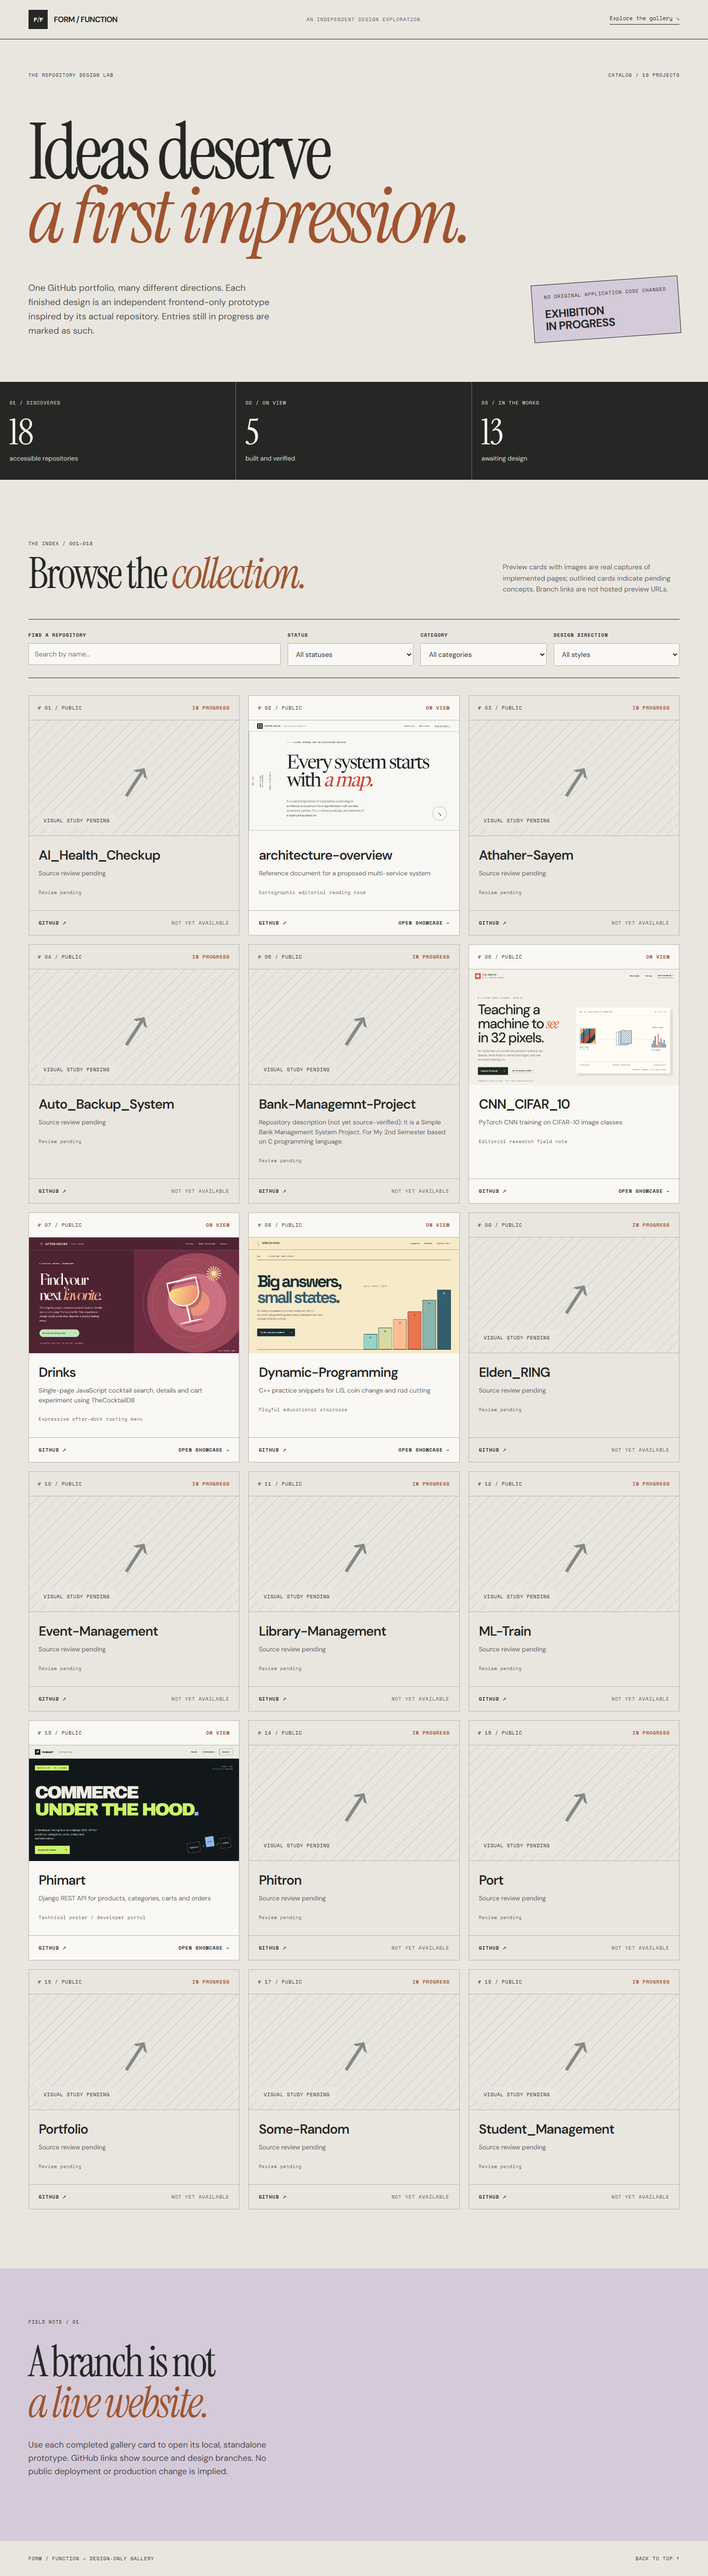
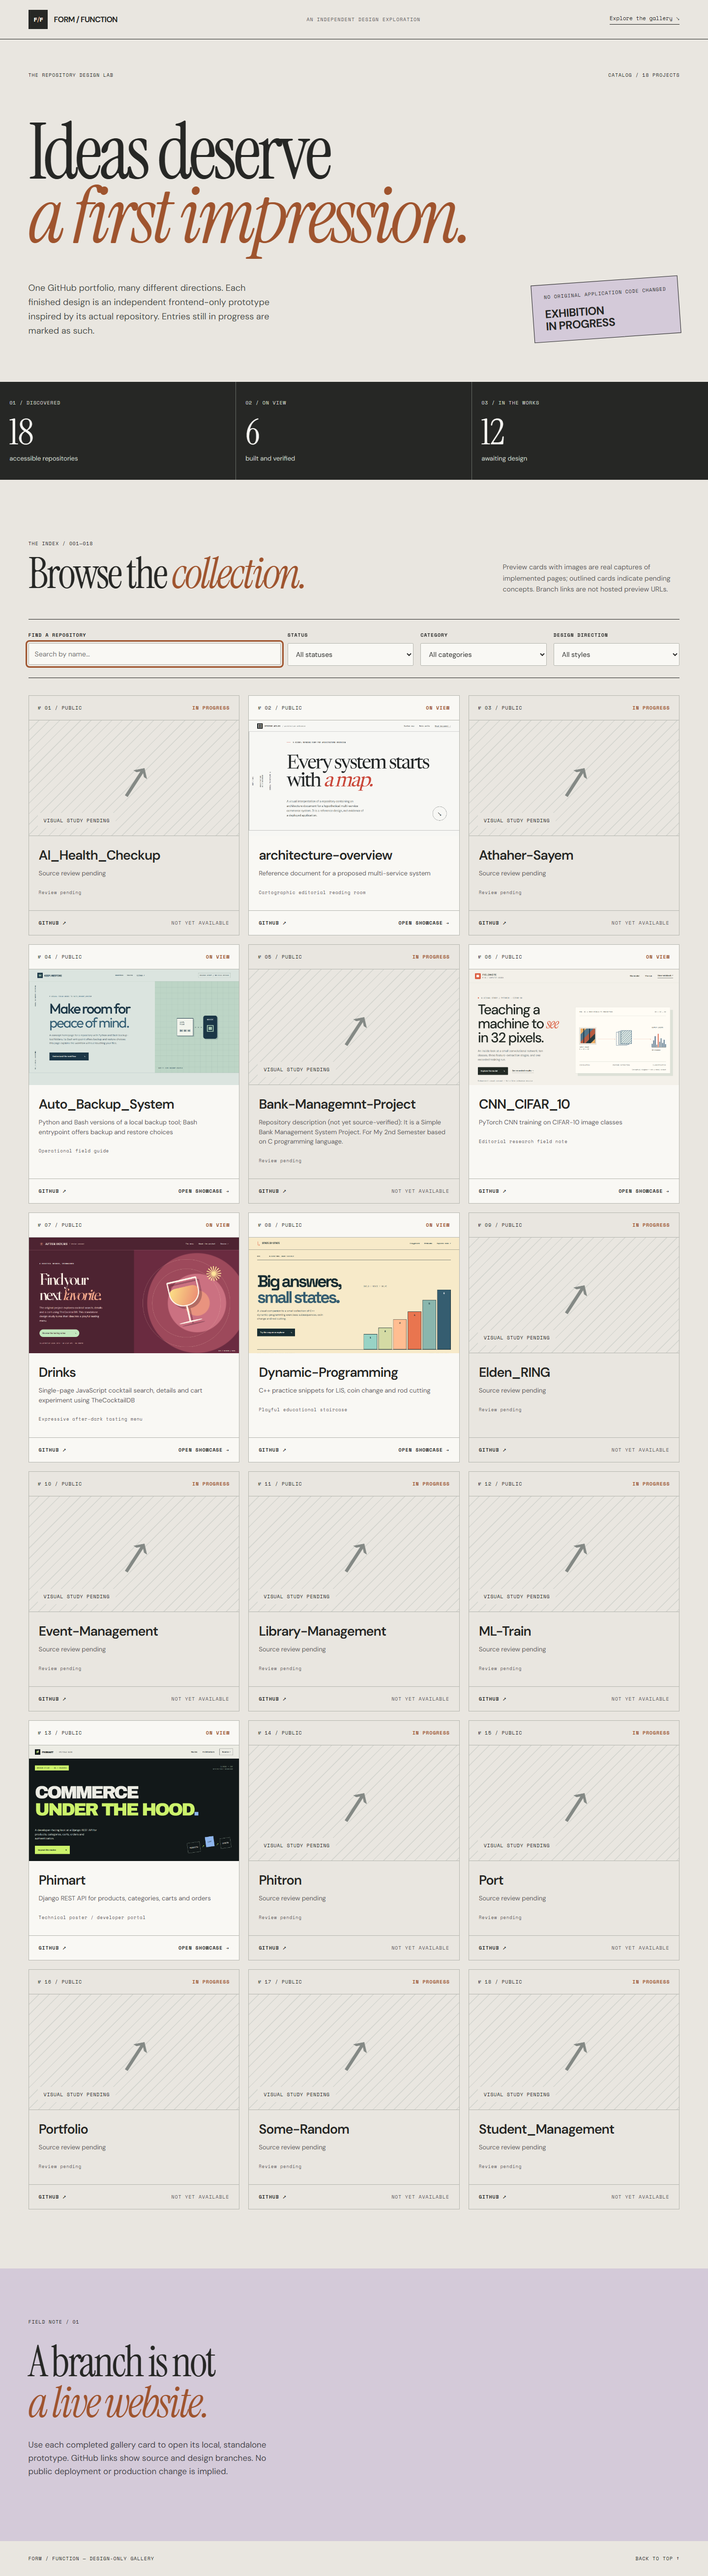
feat: index verified backup showcase

Changed region(s): [[0.2188, 0.3736, 0.3438, 0.4359], [0.0625, 0.3736, 0.1875, 0.4359]]

diff --git a/showcase-design/showcases/Auto_Backup_System/styles.css b/showcase-design/showcases/Auto_Backup_System/styles.css
@@ -1,0 +1,1 @@
+:root{--mist:#dbe4df;--cream:#f3f5ed;--navy:#1b3646;--blue:#345e74;--mint:#a7c9b3;--orange:#e09163;--line:#a8b7af;--sans:'DM Sans',Arial,sans-serif;--display:'Outfit',Arial,sans-serif;--mono:'IBM Plex Mono',Consolas,monospace;--s4:4px;--s8:8px;--s16:16px;--s24:24px;--s32:32px;--s48:48px;--s80:80px;--radius:12px}*{box-sizing:border-box}html{scroll-behavior:smooth}body{margin:0;background:var(--mist);color:var(--navy);font:16px/1.6 var(--sans)}a{color:inherit}button{cursor:pointer;font:inherit}a:focus-visible,button:focus-visible{outline:3px solid var(--orange);outline-offset:3px}.skip{position:absolute;top:-90px;left:12px;background:white;padding:12px;z-index:5}.skip:focus{top:10px}header{min-height:82px;padding:0 4%;display:flex;justify-content:space-between;align-items:center;gap:20px;border-bottom:1px solid var(--line)}.brand{font:700 17px var(--display);letter-spacing:-.04em;text-decoration:none;white-space:nowrap}.brand>span{display:inline-grid;place-items:center;width:36px;height:36px;margin-right:7px;background:var(--navy);color:var(--mint);font-size:23px}header nav{display:flex;gap:27px;font:600 11px var(--mono)}header nav a{text-decoration:none}header nav a:hover{color:var(--blue)}.mode,.eyebrow,.hero-side,.diagram-caption,.section-heading>span,.card-head,.card-footer,.steps b,.implementation>div:first-child>span,.code-head,.code-card>p,.end>span,footer{font:600 10px/1.5 var(--mono);letter-spacing:.09em}.mode{border:1px solid var(--line);padding:8px 10px}.hero{display:grid;grid-template-columns:85px 1.15fr .85fr;min-height:610px;border-bottom:1px solid var(--navy)}.hero-side{writing-mode:vertical-rl;transform:rotate(180deg);display:flex;justify-content:space-between;align-items:center;padding:25px;border-right:1px solid var(--line)}.hero-body{padding:95px 5% 85px 7%}.eyebrow{color:var(--blue)}h1,h2,h3,p{margin-top:0}h1,h2{font-family:var(--display);font-weight:500;line-height:.99;letter-spacing:-.065em}h1{font-size:clamp(65px,6.7vw,110px);margin:27px 0}h1 em,h2 em{font-weight:400;font-style:normal;color:var(--blue)}.hero-body>p:not(.eyebrow){max-width:550px;color:#47616b;font-size:17px}.hero-cta{display:inline-flex;justify-content:space-between;gap:55px;margin-top:32px;padding:17px 22px;background:var(--navy);color:var(--cream);text-decoration:none;font-weight:700;font-size:13px}.hero-cta:hover{background:var(--blue)}.hero-diagram{background:#bdd5c6;position:relative;display:flex;align-items:center;justify-content:center;gap:10px;padding:25px;overflow:hidden}.hero-diagram:before{content:'';position:absolute;inset:0;background:repeating-linear-gradient(0deg,transparent 0 37px,rgba(27,54,70,.08) 38px 39px),repeating-linear-gradient(90deg,transparent 0 37px,rgba(27,54,70,.08) 38px 39px)}.source-shape,.vault-shape{position:relative;min-width:90px;padding:18px;background:var(--cream);border:2px solid var(--navy);box-shadow:7px 7px 0 rgba(27,54,70,.17);font:700 11px var(--mono)}.source-shape i{display:block;font:25px var(--display);font-style:normal;margin-top:20px}.vault-shape{border-radius:15px;text-align:center;background:var(--navy);color:var(--cream)}.vault-shape strong{display:block;font-size:65px;line-height:1.6;color:var(--mint)}.dashed{position:relative;color:var(--navy);font:17px var(--mono)}.diagram-caption{position:absolute;left:24px;bottom:25px}.workflow{padding:110px 5% 130px}.section-heading{max-width:1280px;margin:auto}.section-heading h2,.implementation h2,.end h2{font-size:clamp(55px,5.8vw,92px);margin:24px 0}.section-heading>p{max-width:600px;color:#47616b}.workflow-grid{max-width:1280px;margin:50px auto 0;display:grid;grid-template-columns:350px 1fr;gap:20px}.steps{display:grid;gap:7px;align-content:start}.steps button{border:1px solid var(--line);background:var(--cream);padding:23px;display:flex;gap:17px;align-items:center;text-align:left}.steps button[aria-pressed=true]{background:var(--navy);color:var(--cream);border-color:var(--navy)}.steps button:hover{border-color:var(--orange)}.steps b{font-size:15px;color:var(--orange)}.steps span{flex:1;font-weight:700;font-size:14px}.steps i{font-style:normal}.phase-card{background:var(--cream);border:1px solid var(--line)}.card-head,.card-footer{display:flex;justify-content:space-between;gap:20px;padding:17px 25px;border-bottom:1px solid var(--line)}.card-main{padding:40px 45px 55px;min-height:265px}.card-main>span{font-size:60px;line-height:1;color:var(--orange)}.card-main h3{font:500 44px/1.07 var(--display);letter-spacing:-.05em;margin:20px 0}.card-main p{max-width:590px;color:#47616b}.card-footer{border:0;border-top:1px solid var(--line)}.implementation{padding:115px 5%;background:var(--navy);color:var(--cream);display:grid;grid-template-columns:1fr 1fr;align-items:center;gap:60px}.implementation>div:first-child>p{color:#d0ddda;max-width:560px;line-height:1.8}.implementation h2 em{color:var(--mint)}.code-card{min-width:0;background:#254552;border:1px solid #6d898e}.code-head{display:flex;justify-content:space-between;gap:10px;padding:17px;border-bottom:1px solid #6d898e;color:var(--mint)}pre{overflow:auto;margin:0;padding:30px 22px;font:13px/1.9 var(--mono);color:#d8efe0}.code-card>p{margin:0;padding:20px;color:#c6d5d1;border-top:1px solid #6d898e;font-size:10px}.end{padding:110px 5% 120px;background:var(--cream)}.end h2 em{color:var(--orange)}.end a{display:inline-block;background:var(--orange);padding:18px 24px;font:700 12px var(--mono);text-decoration:none;margin-bottom:24px}.end a:hover{background:#edab82}.end p{color:#47616b}footer{display:flex;justify-content:space-between;gap:15px;padding:24px 5%}footer a{text-decoration:none}@media(max-width:1050px){header .mode{display:none}.hero{grid-template-columns:52px 1fr .8fr}.hero-body{padding:70px 5%}.hero h1{font-size:clamp(58px,7vw,90px)}.workflow-grid{grid-template-columns:290px 1fr}.implementation{gap:25px}}@media(max-width:720px){header{padding:0 20px;min-height:65px}header nav a:not(:last-child){display:none}.hero{grid-template-columns:1fr}.hero-side{writing-mode:initial;transform:none;flex-direction:row;border-right:0;border-bottom:1px solid var(--line);padding:12px 20px}.hero-body{padding:65px 20px}.hero h1{font-size:clamp(58px,11vw,78px)}.hero-diagram{min-height:310px}.section-heading h2,.implementation h2,.end h2{font-size:clamp(52px,10vw,74px)}.workflow{padding:80px 20px}.workflow-grid{grid-template-columns:1fr}.card-main{padding:26px}.card-main h3{font-size:34px}.implementation{padding:80px 20px;grid-template-columns:1fr}.end{padding:80px 20px}footer{padding:24px 20px;font-size:9px}}@media(max-width:400px){.hero h1{font-size:54px}.hero-diagram{gap:5px}.source-shape,.vault-shape{min-width:76px;padding:12px}.dashed{font-size:12px}.code-head span:last-child{display:none}}@media(prefers-reduced-motion:reduce){*,*:before,*:after{scroll-behavior:auto!important;transition:none!important;animation:none!important}}

diff --git a/showcase-design/showcases/Auto_Backup_System/index.html b/showcase-design/showcases/Auto_Backup_System/index.html
@@ -1,0 +1,14 @@
+<!doctype html><html lang="en"><head><meta charset="utf-8"><meta name="viewport" content="width=device-width,initial-scale=1"><meta name="theme-color" content="#dbe4df"><meta name="description" content="A design-only operational map for a local backup scripting repository. No backup or restore is performed."><title>Keep / Restore — backup workflow concept</title><link rel="preconnect" href="https://fonts.googleapis.com"><link rel="preconnect" href="https://fonts.gstatic.com" crossorigin><link href="https://fonts.googleapis.com/css2?family=DM+Sans:wght@400;500;600;700&family=IBM+Plex+Mono:wght@400;500;600&family=Outfit:wght@400;500;600;700&display=swap" rel="stylesheet"><link rel="stylesheet" href="styles.css"><script defer src="app.js"></script></head><body><a class="skip" href="#main">Skip to main content</a>
+<header><a class="brand" href="#top"><span aria-hidden="true">▣</span> KEEP / RESTORE</a><nav aria-label="Primary"><a href="#workflow">Workflow</a><a href="#implementation">Source</a><a target="_blank" rel="noopener noreferrer" href="https://github.com/Athaher-Sayem/Auto_Backup_System">GitHub ↗</a></nav><span class="mode">DESIGN STUDY / NO FILE ACCESS</span></header>
+<main id="main"><section class="hero" id="top"><div class="hero-side"><span>01 / LOCAL SYSTEMS</span><span>DATA IS WORTH KEEPING</span></div><div class="hero-body"><p class="eyebrow">A VISUAL FIELD GUIDE TO AUTO_BACKUP_SYSTEM</p><h1>Make room for<br><em>peace of mind.</em></h1><p>A concept homepage for a repository with Python and Bash backup-tool folders. Its Bash entrypoint offers backup and restore choices; this page explains the workflow without touching your files.</p><a href="#workflow" class="hero-cta">Understand the workflow <span aria-hidden="true">↘</span></a></div><div class="hero-diagram" aria-label="Conceptual illustration showing local files flowing into an archive"><div class="source-shape"><span>LOCAL<br>FILES</span><i aria-hidden="true">▤ ▤ ▤</i></div><div class="dashed" aria-hidden="true">→ → →</div><div class="vault-shape"><span>ARCHIVE</span><strong aria-hidden="true">▣</strong></div><span class="diagram-caption">NOT A LIVE BACKUP STATUS</span></div></section>
+<section class="workflow" id="workflow"><div class="section-heading"><span>01 / HOW THE SCRIPT IS ORGANIZED</span><h2>A backup is a <em>sequence,</em><br>not a button.</h2><p>Explore the phases documented by the Bash entrypoint. The following is a static explanation; these controls do not run the shell script or restore data.</p></div><div class="workflow-grid"><div class="steps" role="group" aria-label="Select a workflow phase"><button type="button" data-phase="source" aria-pressed="true"><b>01</b><span>Select source</span><i aria-hidden="true">↗</i></button><button type="button" data-phase="package" aria-pressed="false"><b>02</b><span>Package &amp; compress</span><i aria-hidden="true">↗</i></button><button type="button" data-phase="restore" aria-pressed="false"><b>03</b><span>Restore path</span><i aria-hidden="true">↗</i></button></div><div class="phase-card"><div class="card-head"><span>WORKFLOW NOTE</span><span id="phase-num">01 / 03</span></div><div class="card-main"><span id="phase-icon" aria-hidden="true">◇</span><h3 id="phase-title">Know what you are saving.</h3><p id="phase-text">The Bash configuration points at a source directory and backup destination. Review paths before running a real backup.</p></div><div class="card-footer" id="phase-foot">CONFIGURATION / SOURCE + DESTINATION</div></div></div></section>
+<section class="implementation" id="implementation"><div><span>02 / SOURCE NOTE</span><h2>Two folders.<br><em>One intent.</em></h2><p>The repository contains Python-version and Bash-version folders. The Bash entrypoint uses Zenity for choices and a tar → pv → gzip pipeline to create a dated archive; restore is delegated to a script. Inspect the source before using either version on real data.</p></div><div class="code-card"><div class="code-head"><span>FROM THE BASH ENTRYPOINT / SIMPLIFIED</span><span>READ-ONLY</span></div><pre><code>source config.cfg
+
+# Backup branch
+cd "$BACKUP_SRC"
+tar -cf - . | pv -n | gzip \
+  &gt; "$BACKUP_DEST/desktop_backup_…tar.gz"
+
+# Restore branch
+bash scripts/restore.sh</code></pre><p>This snippet is an explanatory excerpt, not a runnable command or validation of restore safety.</p></div></section>
+<section class="end"><span>03 / OPEN THE TOOLBOX</span><h2>Read first.<br><em>Run intentionally.</em></h2><a href="https://github.com/Athaher-Sayem/Auto_Backup_System" target="_blank" rel="noopener noreferrer">INSPECT ORIGINAL REPOSITORY ↗</a><p>No backups, restores, scheduling or file access occur in this prototype.</p></section></main><footer><span>KEEP / RESTORE — INDEPENDENT SHOWCASE</span><a href="#top">BACK TO TOP ↑</a></footer></body></html>

diff --git a/showcase-design/showcases/Auto_Backup_System/app.js b/showcase-design/showcases/Auto_Backup_System/app.js
@@ -1,0 +1,11 @@
+// Read-only conceptual workflow notes; no backup or restore operations.
+const phases = {
+  source: { number: '01 / 03', icon: '◇', title: 'Know what you are saving.', text: 'The Bash configuration points at a source directory and backup destination. Review paths before running a real backup.', footer: 'CONFIGURATION / SOURCE + DESTINATION' },
+  package: { number: '02 / 03', icon: '▤', title: 'Turn files into an archive.', text: 'The Bash entrypoint pipes tar through pv and gzip, then writes a timestamped .tar.gz file to the configured destination.', footer: 'BASH / TAR → PV → GZIP' },
+  restore: { number: '03 / 03', icon: '↩', title: 'Treat restore as a separate decision.', text: 'The menu delegates restoration to scripts/restore.sh. Inspect the script and the destination before restoring real files.', footer: 'RESTORE / SOURCE REVIEW REQUIRED' }
+};
+document.querySelectorAll('[data-phase]').forEach(button => button.addEventListener('click', () => {
+  const phase = phases[button.dataset.phase]; if (!phase) return;
+  for (const [id, text] of Object.entries({ 'phase-num': phase.number, 'phase-icon': phase.icon, 'phase-title': phase.title, 'phase-text': phase.text, 'phase-foot': phase.footer })) document.getElementById(id).textContent = text;
+  document.querySelectorAll('[data-phase]').forEach(node => node.setAttribute('aria-pressed', String(node === button)));
+}));

diff --git a/showcase-design/data.js b/showcase-design/data.js
@@ -51,16 +51,16 @@ window.SHOWCASE_PROJECTS = [
     "name": "Auto_Backup_System",
     "url": "https://github.com/Athaher-Sayem/Auto_Backup_System",
     "visibility": "public",
-    "category": "Review pending",
-    "purpose": "Source review pending",
-    "style": null,
-    "palette": null,
-    "fonts": null,
-    "status": "pending",
-    "showcasePath": null,
-    "screenshot": null,
-    "branchUrl": null,
-    "commitUrl": null,
+    "category": "Local backup scripts",
+    "purpose": "Python and Bash versions of a local backup tool; Bash entrypoint offers backup and restore choices",
+    "style": "Operational field guide",
+    "palette": "Cool mist / navy / sea glass / muted orange",
+    "fonts": "Outfit / DM Sans / IBM Plex Mono",
+    "status": "completed",
+    "showcasePath": "showcases/Auto_Backup_System/index.html",
+    "screenshot": "showcases/Auto_Backup_System/assets/screenshots/desktop.png",
+    "branchUrl": "https://github.com/Athaher-Sayem/Auto_Backup_System/tree/Shocase_design",
+    "commitUrl": "https://github.com/Athaher-Sayem/Auto_Backup_System/commit/70ce01b29f4ffd57df8a7ef0d205f2ba879a8279",
     "limitation": null
   },
   {

diff --git a/showcase-design/showcases/Auto_Backup_System/README.md b/showcase-design/showcases/Auto_Backup_System/README.md
@@ -1,0 +1,9 @@
+# Keep / Restore — isolated design concept
+
+Open `index.html` directly or serve this folder with `python -m http.server 8000`. **This page performs no backup or restore and never reads local files.** The interactive workflow tabs only swap explanatory text.
+
+The repository's starting `main` (`e5981a73`) contains Python and Bash folders. Source-verified Bash details are taken from `AutoBackupSystem Using Bash/main.sh` and `config.cfg`: Zenity action choices, a tar → pv → gzip backup pipeline, configured source/destination and restore delegation. The code card is shortened and not runnable. No claim about actual backup status, recovery success or safety is made.
+
+Art direction: operational field guide; cool mist, navy, sea glass and muted orange, Outfit + DM Sans + IBM Plex Mono; a diagram for workflow orientation rather than an invented dashboard. All work is confined to `showcase-design/`.
+
+Rendered screenshots: `assets/screenshots/desktop.png`, `assets/screenshots/tablet.png`, `assets/screenshots/mobile.png`.
